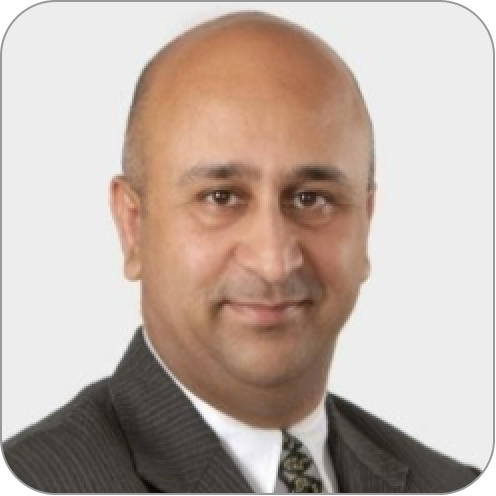
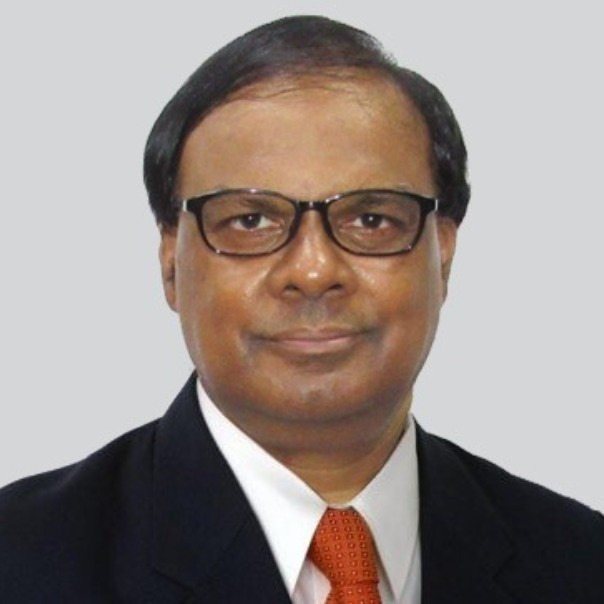
new advisor added

diff --git a/src/components/HomePageSections/OurAdvisor.tsx b/src/components/HomePageSections/OurAdvisor.tsx
@@ -3,31 +3,82 @@ import advisor1 from '../../assets/Advisor/advisor1.png'
 import advisor2 from '../../assets/Advisor/advisor2.png'
 import advisor3 from '../../assets/Advisor/advisor3.png'
 import advisor4 from '../../assets/Advisor/advisor4.png'
+import advisor5 from '../../assets/Advisor/advisor5.png'
+import advisor6 from '../../assets/Advisor/advisor6.png'
 
 const OurAdvisor = () => {
+
+  const AdvisorsArray = [
+  {
+    name: "Dr. Somashekhar",
+    position: "Global Tech Leader",
+    intro: "MBA-MIT Sloan Fellow, INSEAD-EIR, Professor of Innovation & Entreprenurship; VC-Singapore Innovate; AI Venture Guide; Singapore Government IMDA" ,
+    image: advisor1,
+    linkdeinProfile: "https://www.linkedin.com/in/neralakere-somashekhar-soma-9151611/",
+  },
+  {
+    name: "Ish Anand",
+    position: "Serial Entrepreneur, Advisor in Startups, Global Citizen",
+    intro: `30 years + of experience in Corporates, the Startup Ecosystem and as an Enterpreneur across 5 continents`,
+    image: advisor2,
+    linkdeinProfile: "https://www.linkedin.com/in/ishanand/",
+  },
+   {
+    name: "Dr. Sindhu Bhaskar",
+    position: "Co-Founder, EST Global, Forbes Council Member",
+    intro: `Established $100M+ business in Education sector. Co-Founded Fintech & Blockchain Association (FAB), US`,
+    image: advisor3,
+    linkdeinProfile: "https://www.linkedin.com/in/dr-sindhu-bhaskar-55a84568/",
+  },
+  {
+    name:"Dr. Vishram Bapat",
+    position:"Director, SNDT University",
+    intro:"Director, India's Largest Women's University, Startup Mentor acrooss India Ministry of Science & Technology, Goverment of India",
+    image:advisor4,
+    linkdeinProfile:"https://www.linkedin.com/in/vishram/"
+  },
+    {
+    name: "Dr. Narsing Rao, GS",
+    position: "Former VC at ICFAI University",
+    intro: `30 years + of experience in Education Sector as Vice Chancellor & Chief Mentor at Indian Universities ex-Professor`,
+    image: advisor5,
+    linkdeinProfile: "https://www.linkedin.com/in/dr-narsing-rao-gs-a318735/",
+  },
+  {
+    name: "James Wren",
+    position: "Lead BD, Liquidium",
+    intro: `7+ years experience in Web3, Blockchain Degen & influencer in the BTC Ecosystem`,
+    image: advisor6,
+    linkdeinProfile: "https://www.linkedin.com/in/james-wren-15b8b759/",
+  },
+];
+
   return (
     <div className="flex flex-col justify-center items-center gap-8">
       <p className="text-[#03257E] text-[25px] sm:text-[40px] md:text-[50px] font-bold uppercase text-center" data-aos="fade-up">
         MEET OUR ADVISORS
       </p>
       <div className=" flex justify-center items-center flex-wrap gap-3">
-        <div className="w-full max-w-xs min-h-[450px] p-4 bg-gradient-to-br from-gray-100 to-white rounded-2xl shadow-md hover:shadow-lg hover:-translate-y-2 transition duration-300 flex flex-col justify-between items-center text-center">
+           {
+          AdvisorsArray?.map((advisor,index)=>{
+            return(
+          <div key={index} className="w-full max-w-xs min-h-[450px] p-4 bg-gradient-to-br from-gray-100 to-white rounded-2xl shadow-md hover:shadow-lg hover:-translate-y-2 transition duration-300 flex flex-col justify-between items-center text-center">
           <div className="w-28 h-28 mb-4 rounded-full p-1 bg-gradient-to-br from-[#03257e] via-[#006666] to-[#F14419]">
             <img
-              src={advisor1}
+              src={advisor.image}
               alt="advisor1"
               className="w-full h-full rounded-full object-cover"
               data-aos="zoom-in"
             />
           </div>
           <div className="flex flex-col items-center flex-grow" data-aos="zoom-in">
-            <p className="text-lg font-bold text-gray-800 mb-1">Ish Anand</p>
+            <p className="text-lg font-bold text-gray-800 mb-1">{advisor.name}</p>
             <p className="bg-gradient-to-r from-[#03257e] via-[#006666] to-[#F14419] text-white text-sm font-semibold px-3 py-1 rounded-full mb-3">
-              Serial Entrepreneur, Advisor in Startups, Global Citizen
+              {advisor.position}
             </p>
 
             <a
-              href="https://www.linkedin.com/in/ishanand/"
+              href={advisor.linkdeinProfile}
               target="_blank"
               rel="noreferrer"
               className="mb-4"
@@ -36,114 +87,13 @@ const OurAdvisor = () => {
             </a>
 
             <p className="text-sm text-gray-600 leading-relaxed">
-              30 years + of experience in Corporates, the Startup Ecosystem and
-              as an Enterpreneur across 5 continents
+              {advisor.intro}
             </p>
           </div>
-        </div>
-        <div className="w-full max-w-xs min-h-[450px] p-4 bg-gradient-to-br from-gray-100 to-white rounded-2xl shadow-md hover:shadow-lg hover:-translate-y-2 transition duration-300 flex flex-col justify-between items-center text-center">
-          {/* Image */}
-          <div className="w-28 h-28 mb-4 rounded-full p-1 bg-gradient-to-br from-[#03257e] via-[#006666] to-[#F14419]">
-            <img
-              src={advisor2}
-              alt="advisor2"
-              className="w-full h-full rounded-full object-cover"
-              data-aos="zoom-in"
-            />
           </div>
-
-          {/* Content */}
-          <div className="flex flex-col items-center flex-grow" data-aos="zoom-in">
-            <p className="text-lg font-bold text-gray-800 mb-1">
-              Dr. Narsing Rao, GS
-            </p>
-            <p className="bg-gradient-to-r from-[#03257e] via-[#006666] to-[#F14419] text-white text-sm font-semibold px-3 py-1 rounded-full mb-3">
-              Former VC at ICFAI University
-            </p>
-
-            <a
-              href="https://www.linkedin.com/in/dr-narsing-rao-gs-a318735/"
-              target="_blank"
-              rel="noreferrer"
-              className="mb-4"
-            >
-              <FaLinkedinIn className="text-[#0077B5] w-7 h-7" />
-            </a>
-
-            <p className="text-sm text-gray-600 leading-relaxed">
-              30 years + of experience in Education Sector as Vice Chancellor &
-              Chief Mentor at Indian Universities ex-Professor
-            </p>
-          </div>
-        </div>
-        <div className="w-full max-w-xs min-h-[450px] p-4 bg-gradient-to-br from-gray-100 to-white rounded-2xl shadow-md hover:shadow-lg hover:-translate-y-2 transition duration-300 flex flex-col justify-between items-center text-center">
-          {/* Image */}
-          <div className="w-28 h-28 mb-4 rounded-full p-1 bg-gradient-to-br from-[#03257e] via-[#006666] to-[#F14419]">
-            <img
-              src={advisor3}
-              alt="advisor3"
-              className="w-full h-full rounded-full object-cover"
-              data-aos="zoom-in"
-            />
-          </div>
-
-          {/* Content */}
-          <div className="flex flex-col items-center flex-grow" data-aos="zoom-in">
-            <p className="text-lg font-bold text-gray-800 mb-1">
-              Dr. Sindhu Bhaskar
-            </p>
-            <p className="bg-gradient-to-r from-[#03257e] via-[#006666] to-[#F14419] text-white text-sm font-semibold px-3 py-1 rounded-full mb-3">
-              Co-Founder, EST Global, Forbes Council Member
-            </p>
-
-            <a
-              href="https://www.linkedin.com/in/dr-sindhu-bhaskar-55a84568/"
-              target="_blank"
-              rel="noreferrer"
-              className="mb-4"
-            >
-              <FaLinkedinIn className="text-[#0077B5] w-7 h-7" />
-            </a>
-
-            <p className="text-sm text-gray-600 leading-relaxed">
-              Established $100M+ business in Education sector. Co-Founded
-              Fintech & Blockchain Association (FAB), US.
-            </p>
-          </div>
-        </div>
-        <div className="w-full max-w-xs min-h-[450px] p-4 bg-gradient-to-br from-gray-100 to-white rounded-2xl shadow-md hover:shadow-lg hover:-translate-y-2 transition duration-300 flex flex-col justify-between items-center text-center">
-          {/* Image */}
-          <div className="w-28 h-28 mb-4 rounded-full p-1 bg-gradient-to-br from-[#03257e] via-[#006666] to-[#F14419]">
-            <img
-              src={advisor4}
-              alt="advisor4"
-              className="w-full h-full rounded-full object-cover"
-              data-aos="zoom-in"
-            />
-          </div>
-
-          {/* Content */}
-          <div className="flex flex-col items-center flex-grow" data-aos="zoom-in">
-            <p className="text-lg font-bold text-gray-800 mb-1">James Wren</p>
-            <p className="bg-gradient-to-r from-[#03257e] via-[#006666] to-[#F14419] text-white text-sm font-semibold px-3 py-1 rounded-full mb-3">
-              Lead BD, Liquidium
-            </p>
-
-            <a
-              href="https://www.linkedin.com/in/james-wren-15b8b759/"
-              target="_blank"
-              rel="noreferrer"
-              className="mb-4"
-            >
-              <FaLinkedinIn className="text-[#0077B5] w-7 h-7" />
-            </a>
-
-            <p className="text-sm text-gray-600 leading-relaxed">
-              7+ years experience in Web3, Blockchain Degen & influencer in the
-              BTC Ecosystem.
-            </p>
-          </div>
-        </div>
+            )
+          })
+        }
       </div>
     </div>
   );
